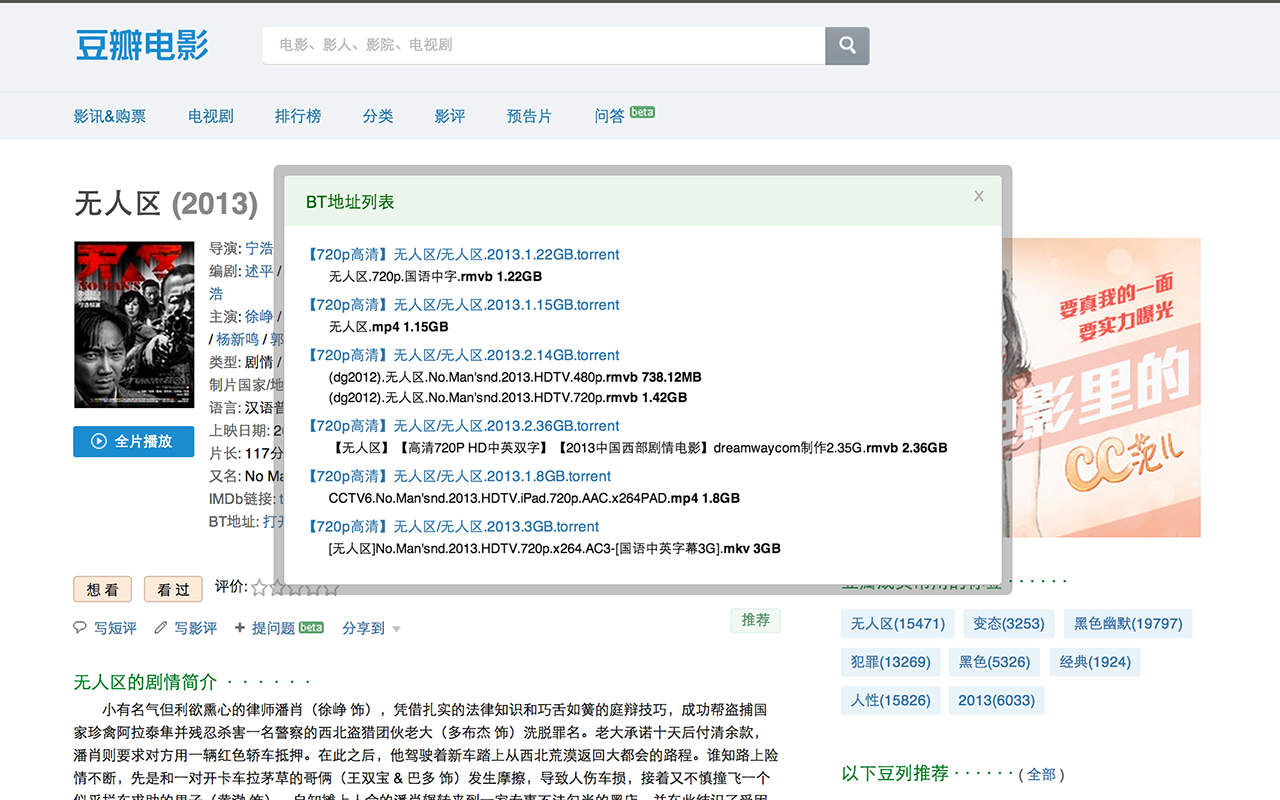
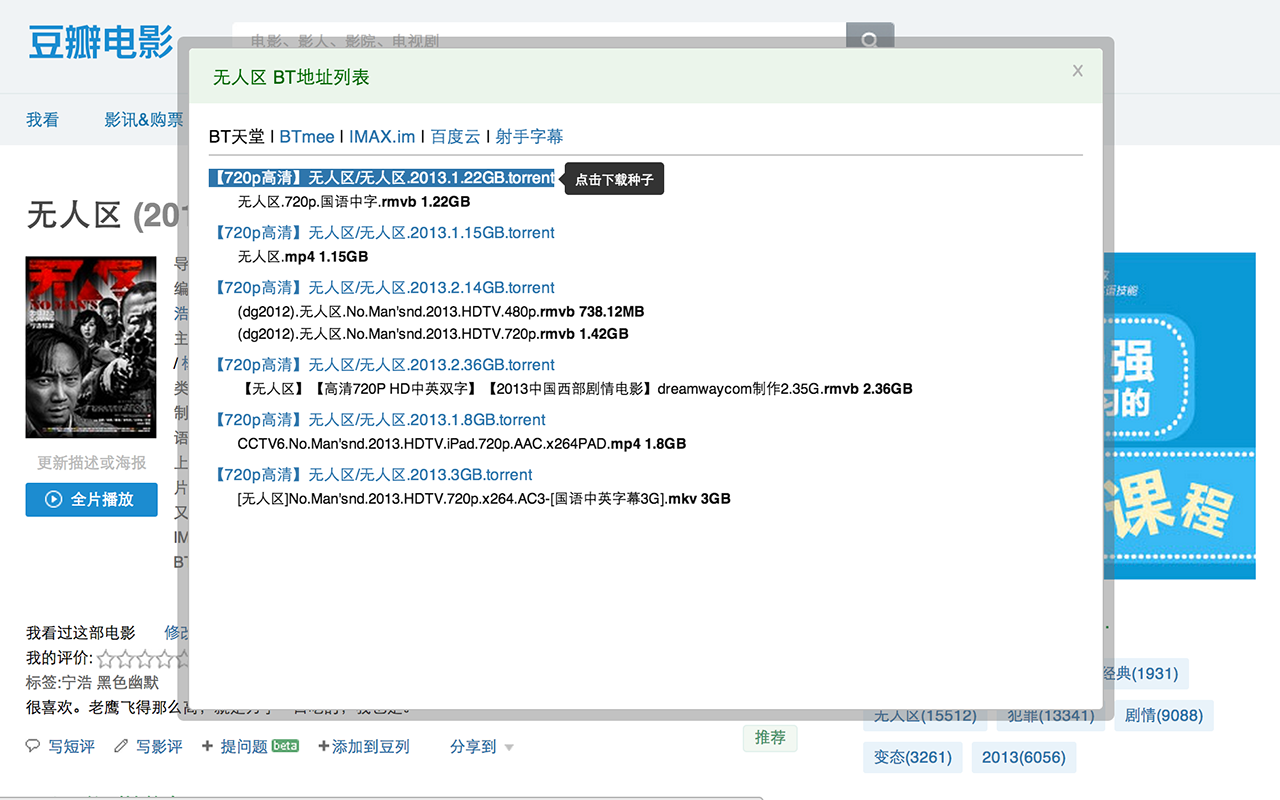
Change version to v1.0.0

Changed region(s): [[0.0, 0.0, 1.0, 1.0], [0.6562, 0.9375, 0.8438, 1.0], [0.4688, 0.125, 0.5312, 0.1562]]

diff --git a/dist/bootstrap.js b/dist/bootstrap.js
@@ -1,1 +1,1 @@
-!function(){"use strict";function a(a,b){var c=a;0!==c.indexOf("chrome-extension://")&&(c=chrome.extension.getURL(c));var d=document.createElement("script");d.src=c,d.type="text/javascript";for(var e in b)b.hasOwnProperty(e)&&d.setAttribute(e,b[e]);document.body.appendChild(d)}a("seajs/sea.js",{"data-config":"config.js?v0.9.0","data-main":"js/main.js"})}();
+!function(){"use strict";function a(a,b){var c=a;0!==c.indexOf("chrome-extension://")&&(c=chrome.extension.getURL(c));var d=document.createElement("script");d.src=c,d.type="text/javascript";for(var e in b)b.hasOwnProperty(e)&&d.setAttribute(e,b[e]);document.body.appendChild(d)}a("seajs/sea.js",{"data-config":"config.js?v1.0.0","data-main":"js/main.js"})}();

diff --git a/dist/config.js b/dist/config.js
@@ -1,1 +1,1 @@
-seajs.config({alias:{jquery:{src:"lib/jquery.js",exports:"noConfictJQuery"},async:{src:"lib/async.js",exports:"async"},mustache:{src:"lib/mustache.js",exports:"Mustache"},purl:{src:"lib/purl.js",exports:"purl"}},vars:{locale:"zh-cn"},map:[[/^(.*\/js\/.*\.(?:css|js))(?:.*)$/i,"$1?v0.9.0"]],plugins:["text","shim"],preload:[],debug:!0,charset:"utf-8"});
+seajs.config({alias:{jquery:{src:"lib/jquery.js",exports:"noConfictJQuery"},async:{src:"lib/async.js",exports:"async"},mustache:{src:"lib/mustache.js",exports:"Mustache"},purl:{src:"lib/purl.js",exports:"purl"}},vars:{locale:"zh-cn"},map:[[/^(.*\/js\/.*\.(?:css|js))(?:.*)$/i,"$1?v1.0.0"]],plugins:["text","shim"],preload:[],debug:!0,charset:"utf-8"});

diff --git a/src/bootstrap.js b/src/bootstrap.js
@@ -25,7 +25,7 @@
 
     // 注入模块管理 seajs
     injectScript('seajs/sea.js', {
-        'data-config': 'config.js?v0.9.0',
+        'data-config': 'config.js?v1.0.0',
         'data-main': 'js/main.js'
     });
 })();

diff --git a/src/config.js b/src/config.js
@@ -30,7 +30,7 @@ seajs.config({
 
     // 映射配置
     map: [
-        [ /^(.*\/js\/.*\.(?:css|js))(?:.*)$/i, '$1?v0.9.0' ]
+        [ /^(.*\/js\/.*\.(?:css|js))(?:.*)$/i, '$1?v1.0.0' ]
     ],
 
     // 插件

diff --git a/CHANGELOG.md b/CHANGELOG.md
@@ -4,6 +4,12 @@ A chrome extension for Douban Movie
 
 ## Change Log
 
+- v1.0.0 - March 10 2014
+    - 添加 btmee.net et 的种子搜索
+    - 添加 imax.im 下载地址的搜索
+    - 添加 shooter.cn 下载地字幕搜索
+    - refactor search
+
 - v0.5.0 - March 9 2014
     - 从www.bttiantang.com加载种子地址
     - 百度云加载下载地址

diff --git a/README.md b/README.md
@@ -6,12 +6,11 @@
 
 ## Features
 
-- 支持大部分电影多个版本的bt种子下载
+- 支持绝大部分电影多个版本的bt种子或地址下载
+- 可切换不同平台的搜索结果
+- 支持字幕下载
 
 ## TODO List
-
-- 添加 http://btmee.net/ 的搜索
-- 平行化不同搜索平台的结果
 
 ## License
 
